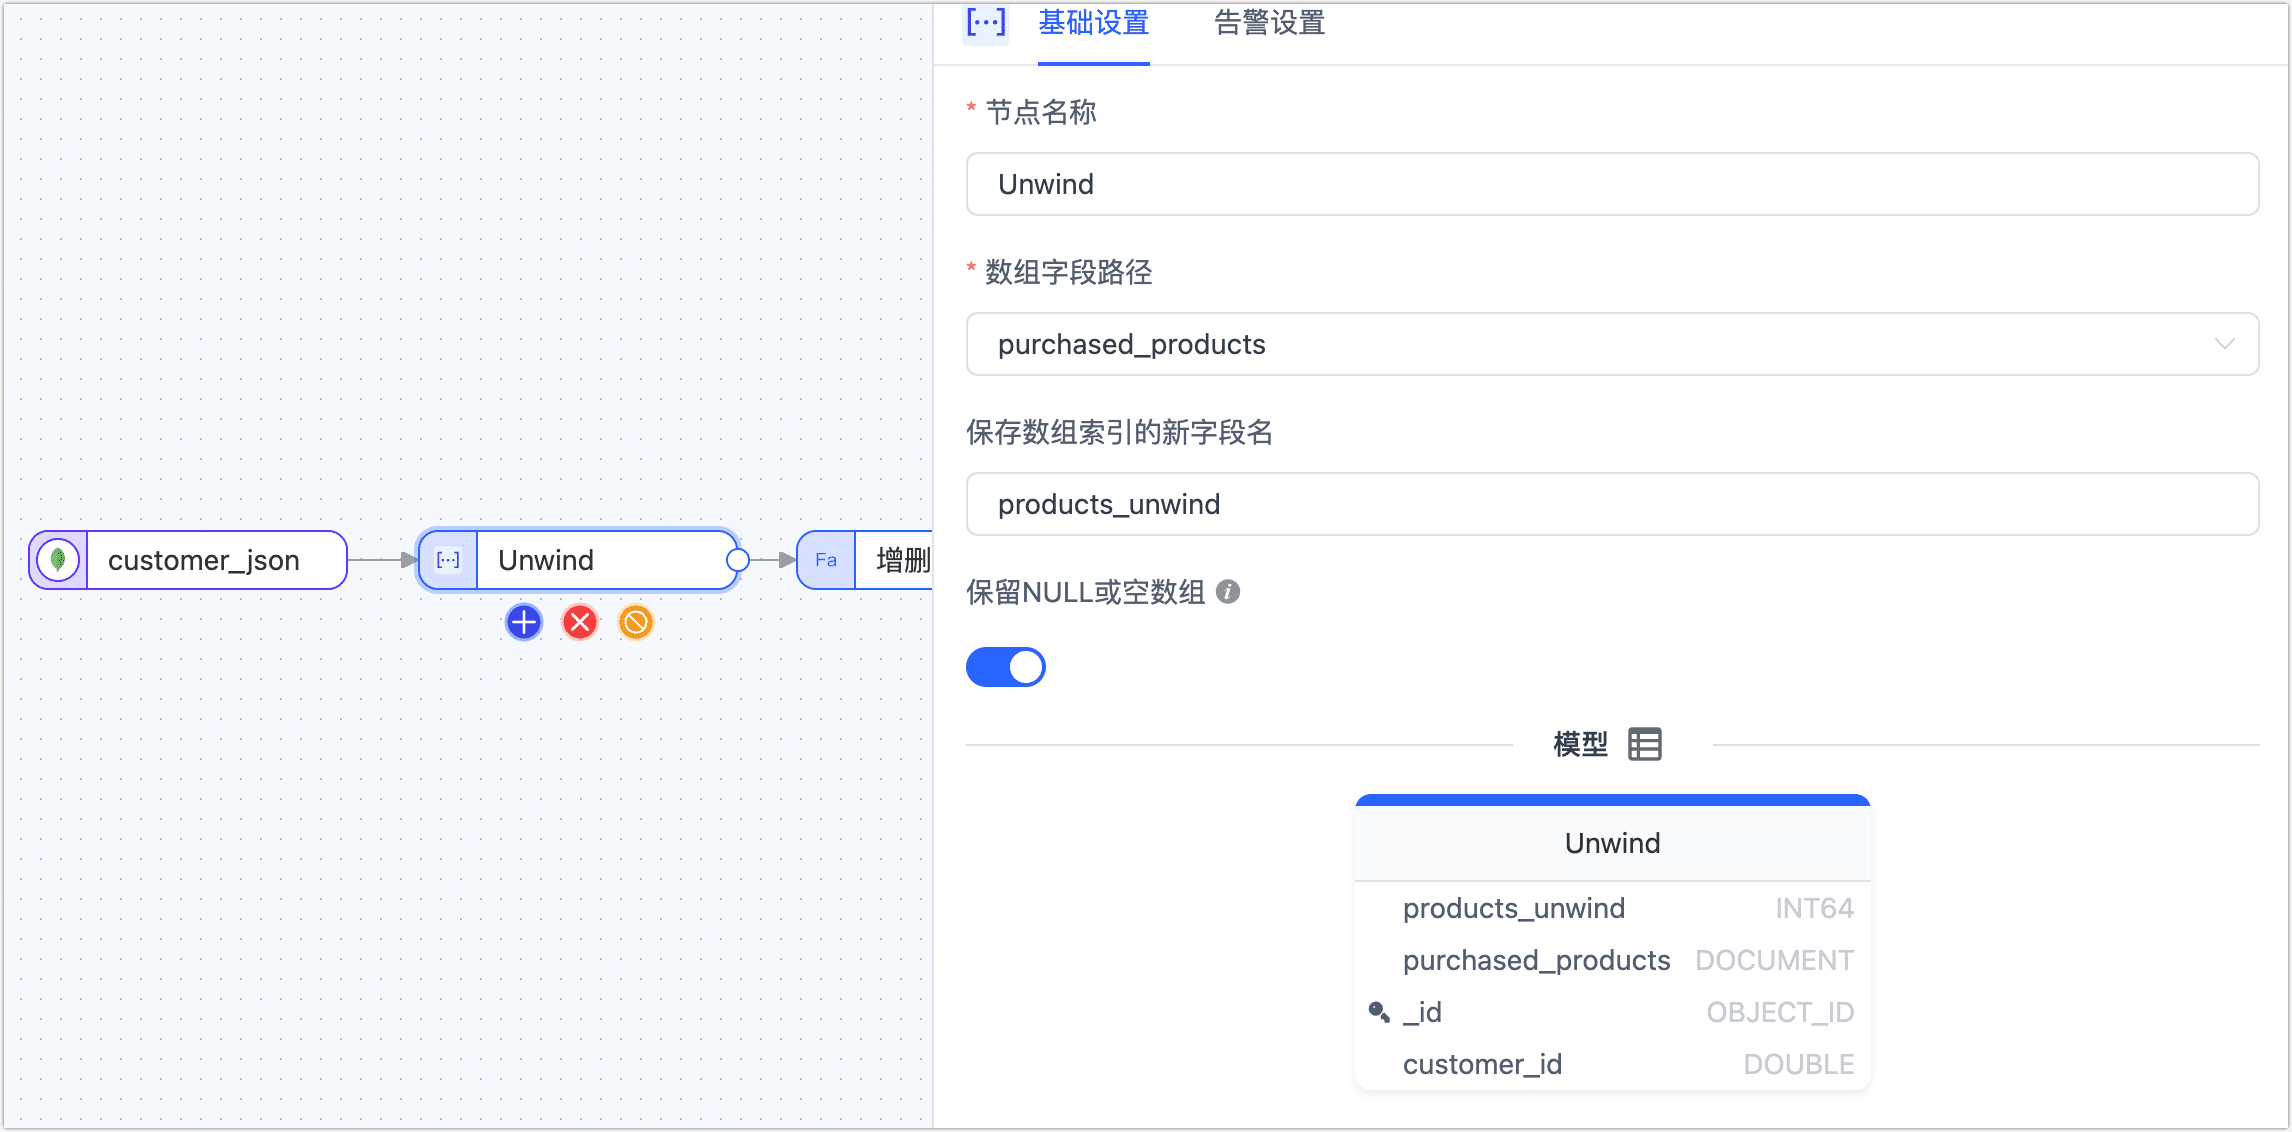
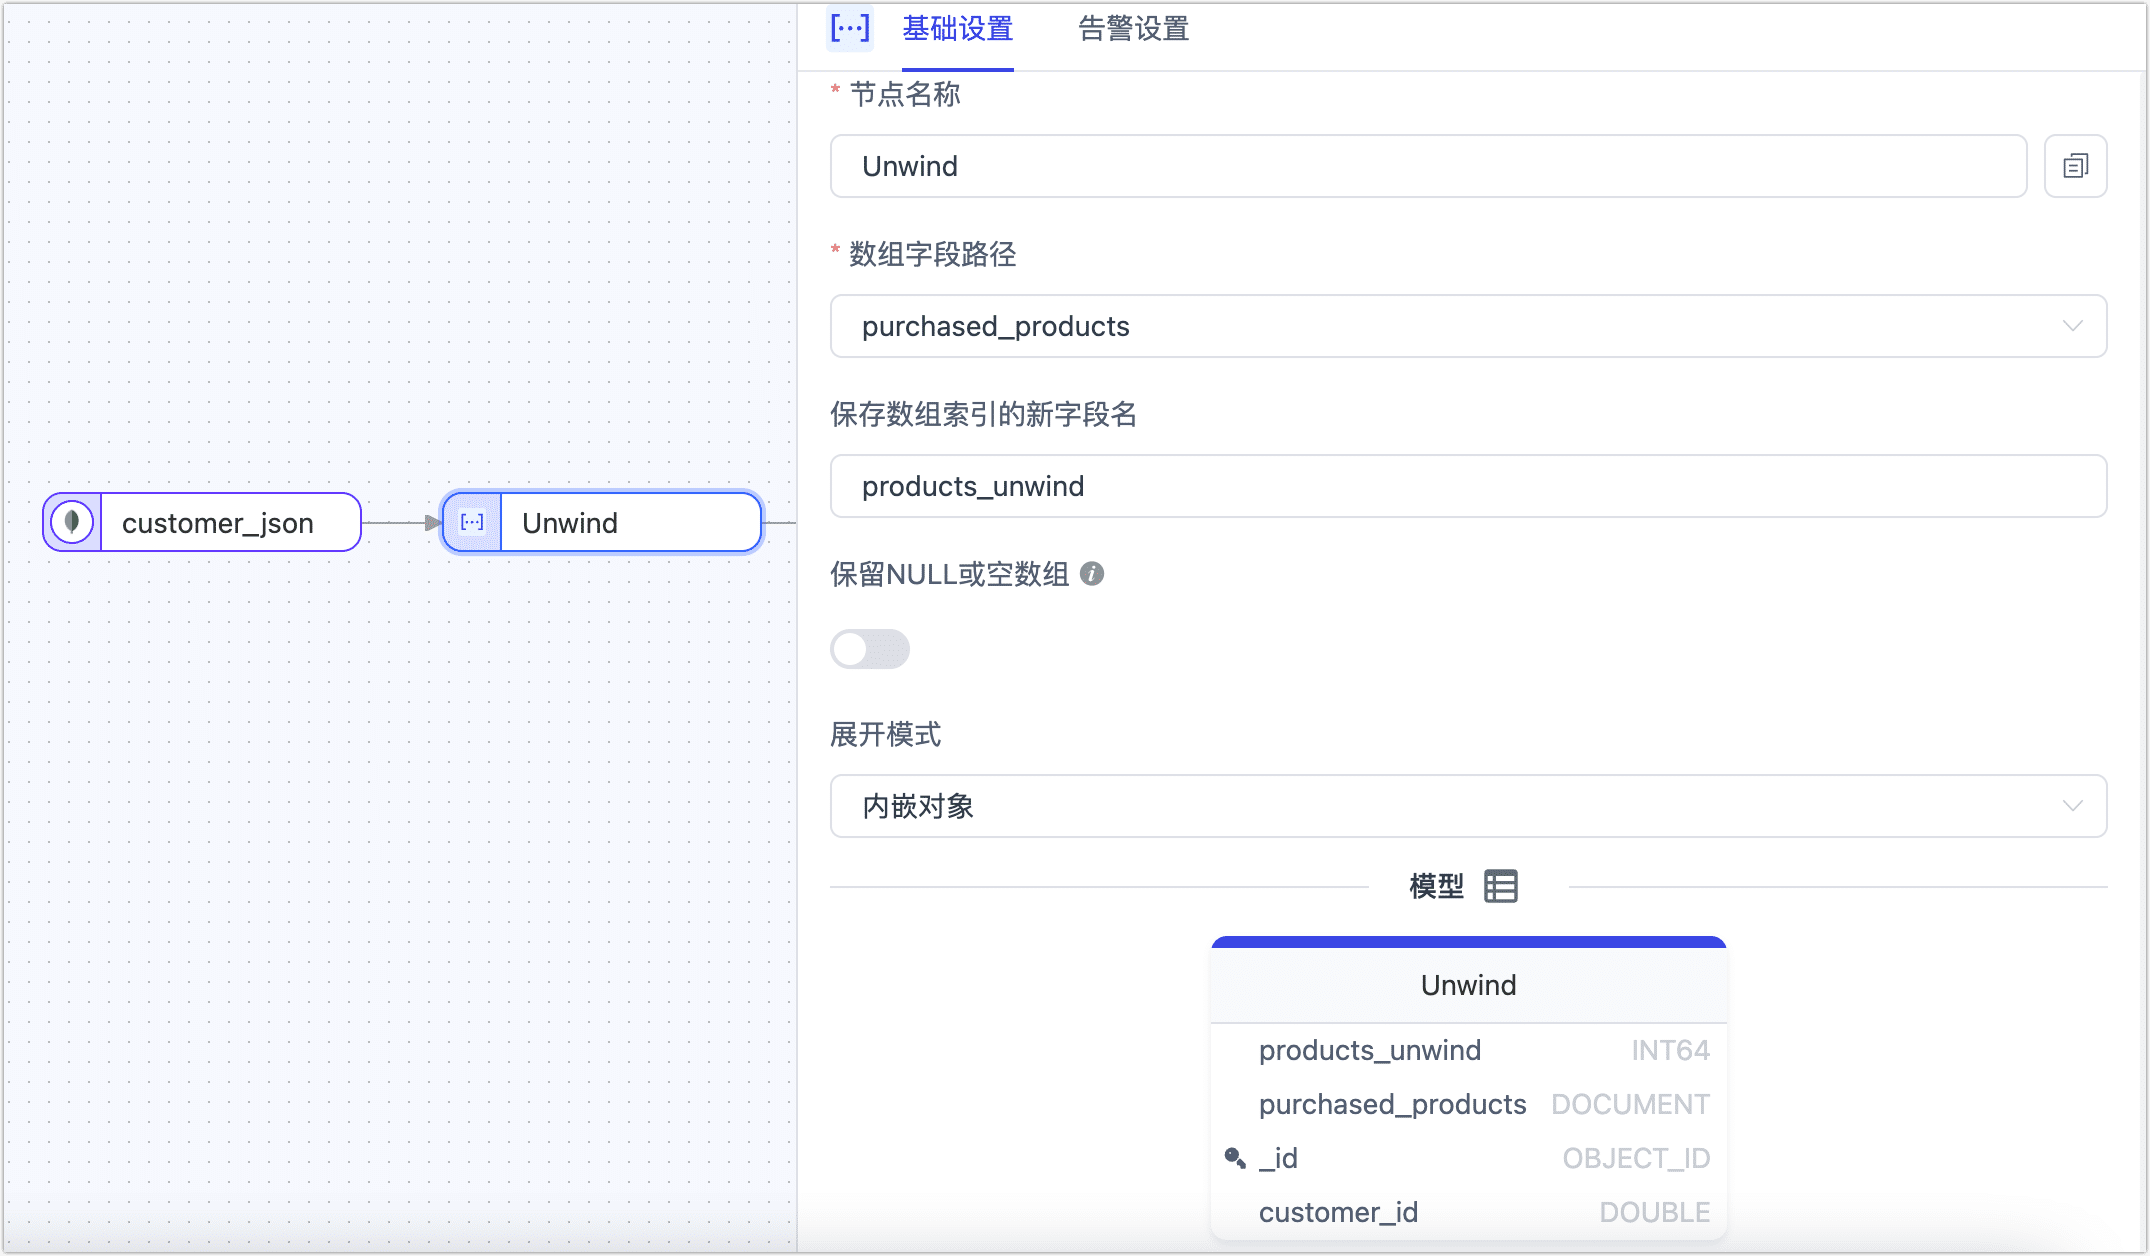
Part 1

diff --git a/docs/release-notes/release-notes-on-prem.md b/docs/release-notes/release-notes-on-prem.md
@@ -8,6 +8,29 @@ import Content from '../reuse-content/_enterprise-features.md';
 
 
 
+## 3.5.16
+
+### 新增功能
+
+* 支持 MySQL 间、PostgreSQL 间的双向数据同步能力，更好满足多活和容灾场景
+* 支持 [MongoDB Relmig](https://www.mongodb.com/docs/relational-migrator/) 1.3.0 以上版本的文件导入能力，进一步完善生态对接能力
+* 支持同步 MongoDB 的 [Oplog](https://www.mongodb.com/docs/manual/core/replica-set-oplog/)（操作日志）数据
+* 支持在任务配置时，在源节点的**高级设置**中选择对表的时间字段进行过滤（例如相对日期）
+* 支持在任务列表页面，展示任务里程碑信息，帮助用户快速获知任务的关键进度状况
+
+### 功能优化
+
+* 优化 [Unwind 节点](../user-guide/data-pipeline/data-development/process-node#unwind)，支持设置展开模式，如内嵌对象或平铺字段
+* 优化全量同步详情页面展示，支持通过表名快速过滤表
+
+### 问题修复
+
+* 修复特定场景下，调整告警设置可能影响任务正常运行的问题
+* 修复新增挖掘表时，任务显示挖掘任务异常的问题
+* 修复缓存任务被删除后，任务启动后仍从已删除的缓存任务获取数据的问题
+
+
+
 ## 3.5.15
 
 ### 新增功能
